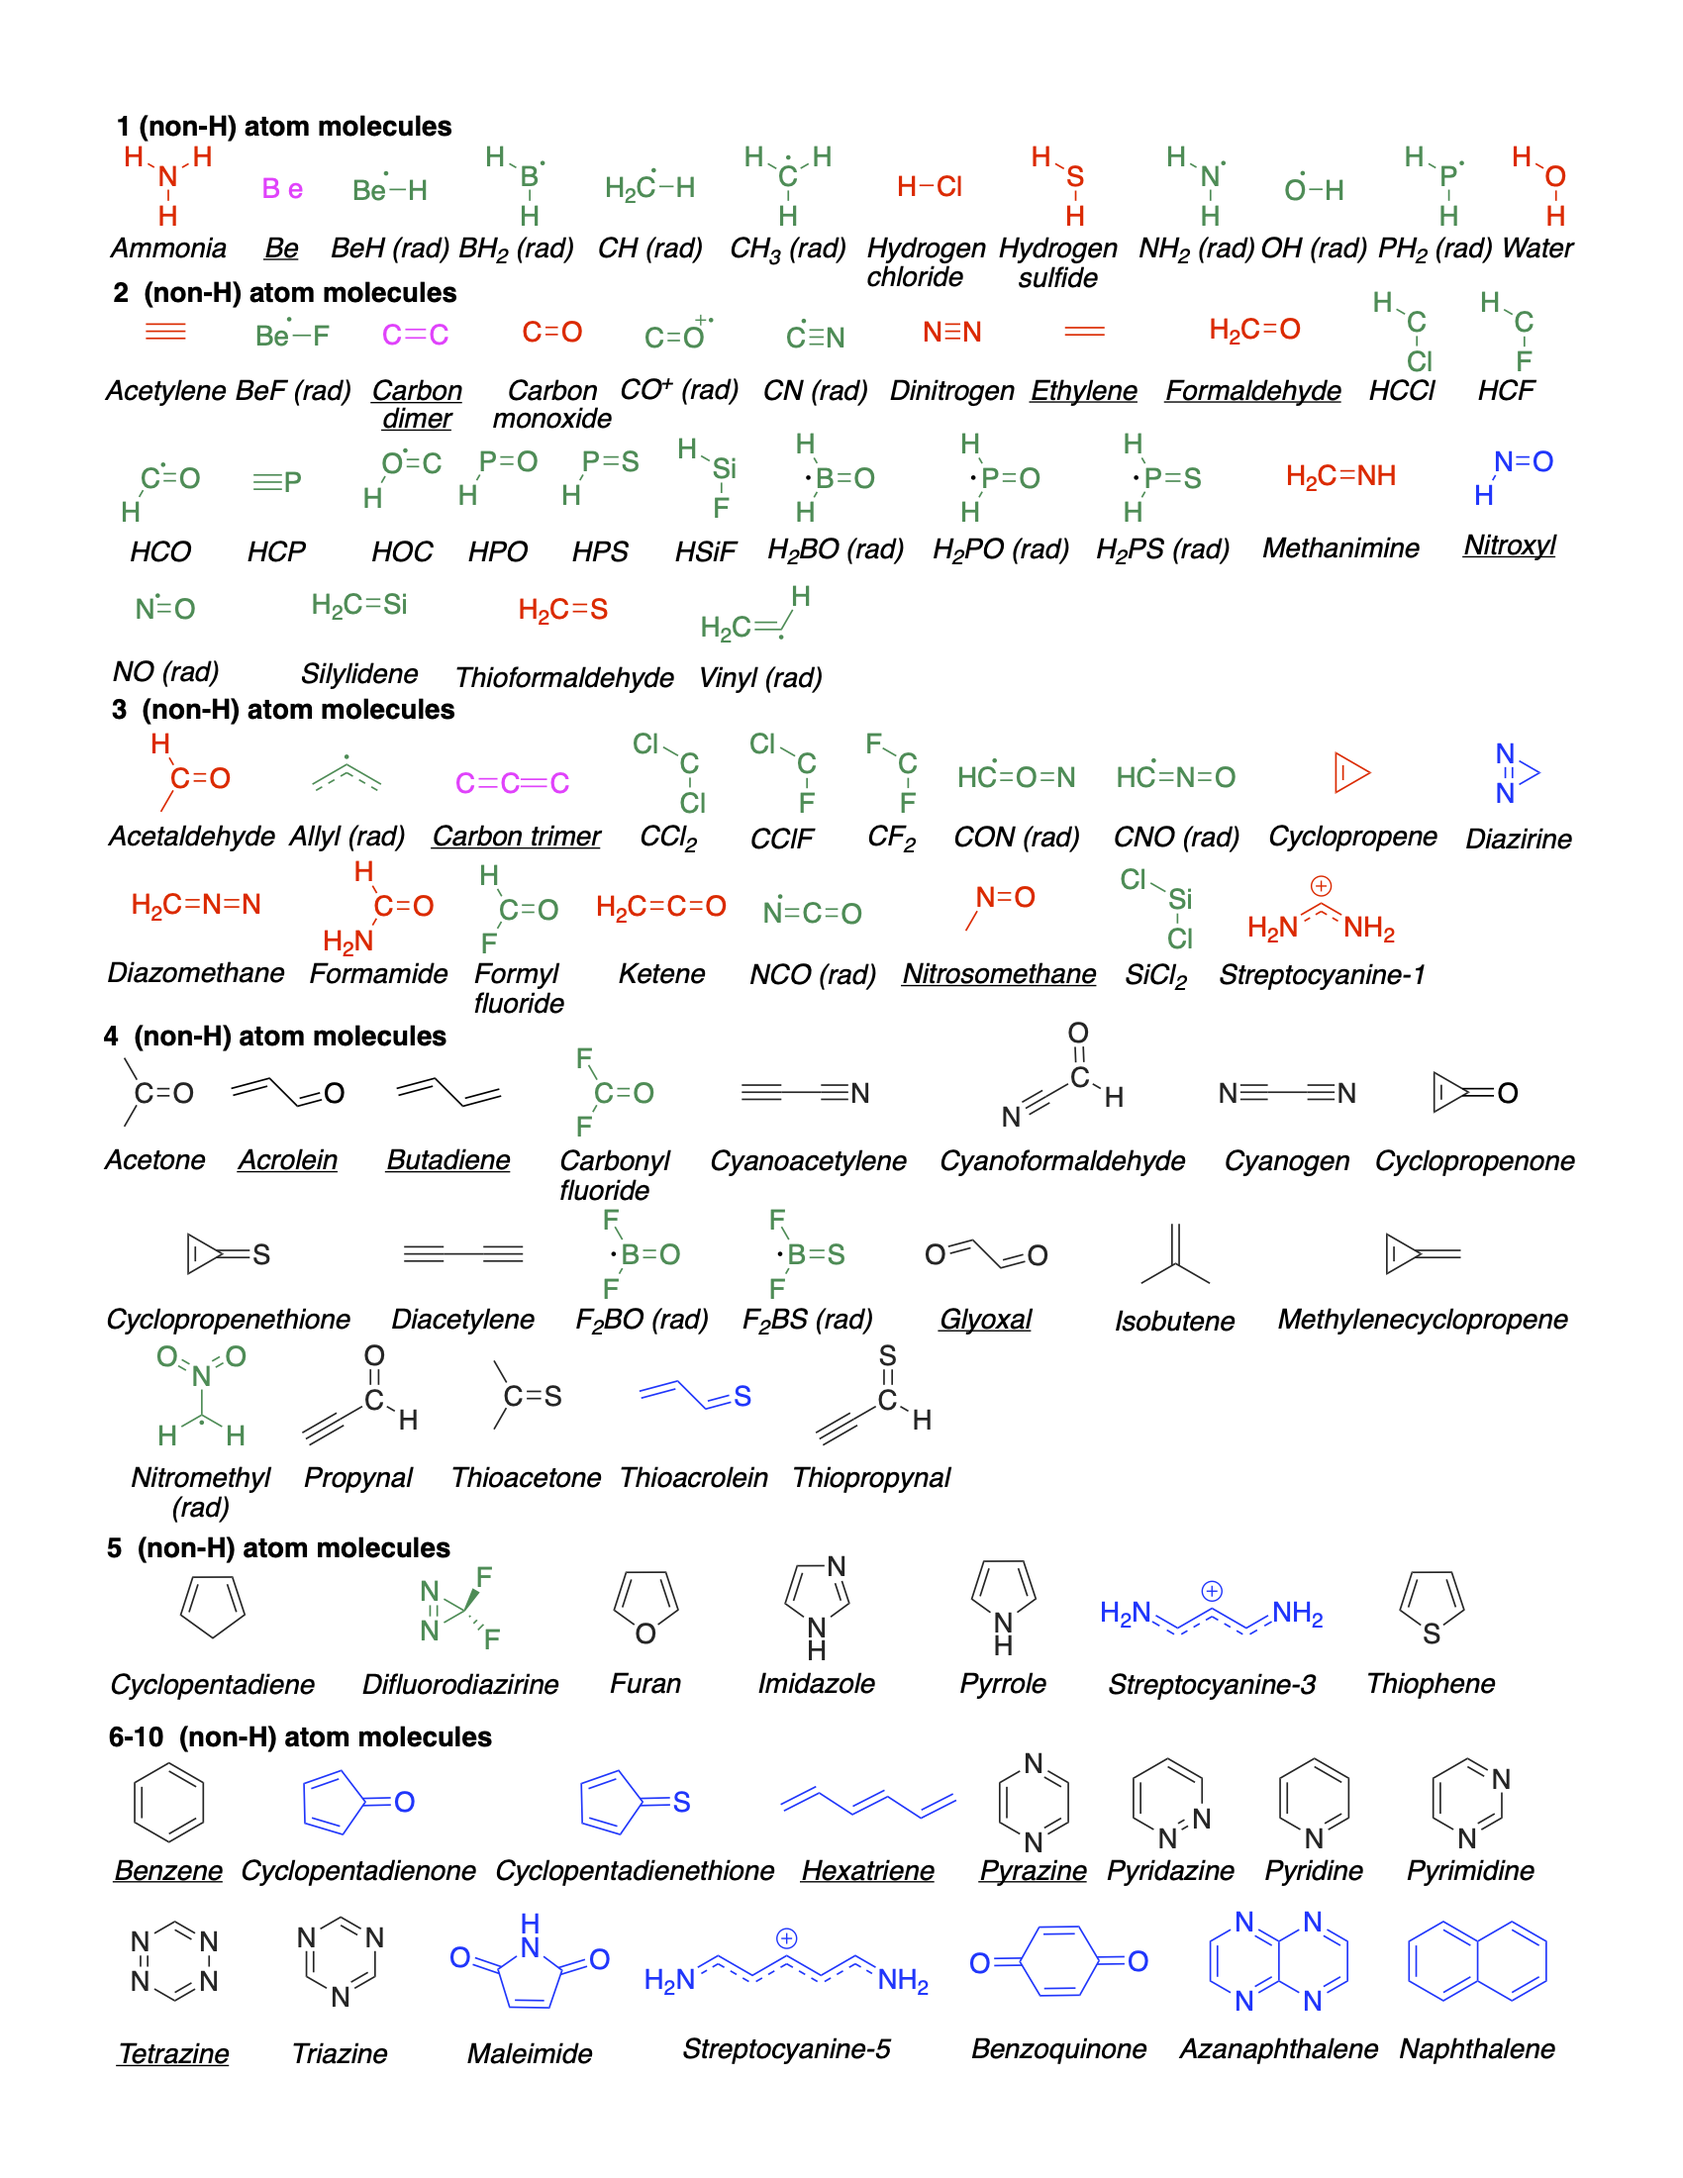
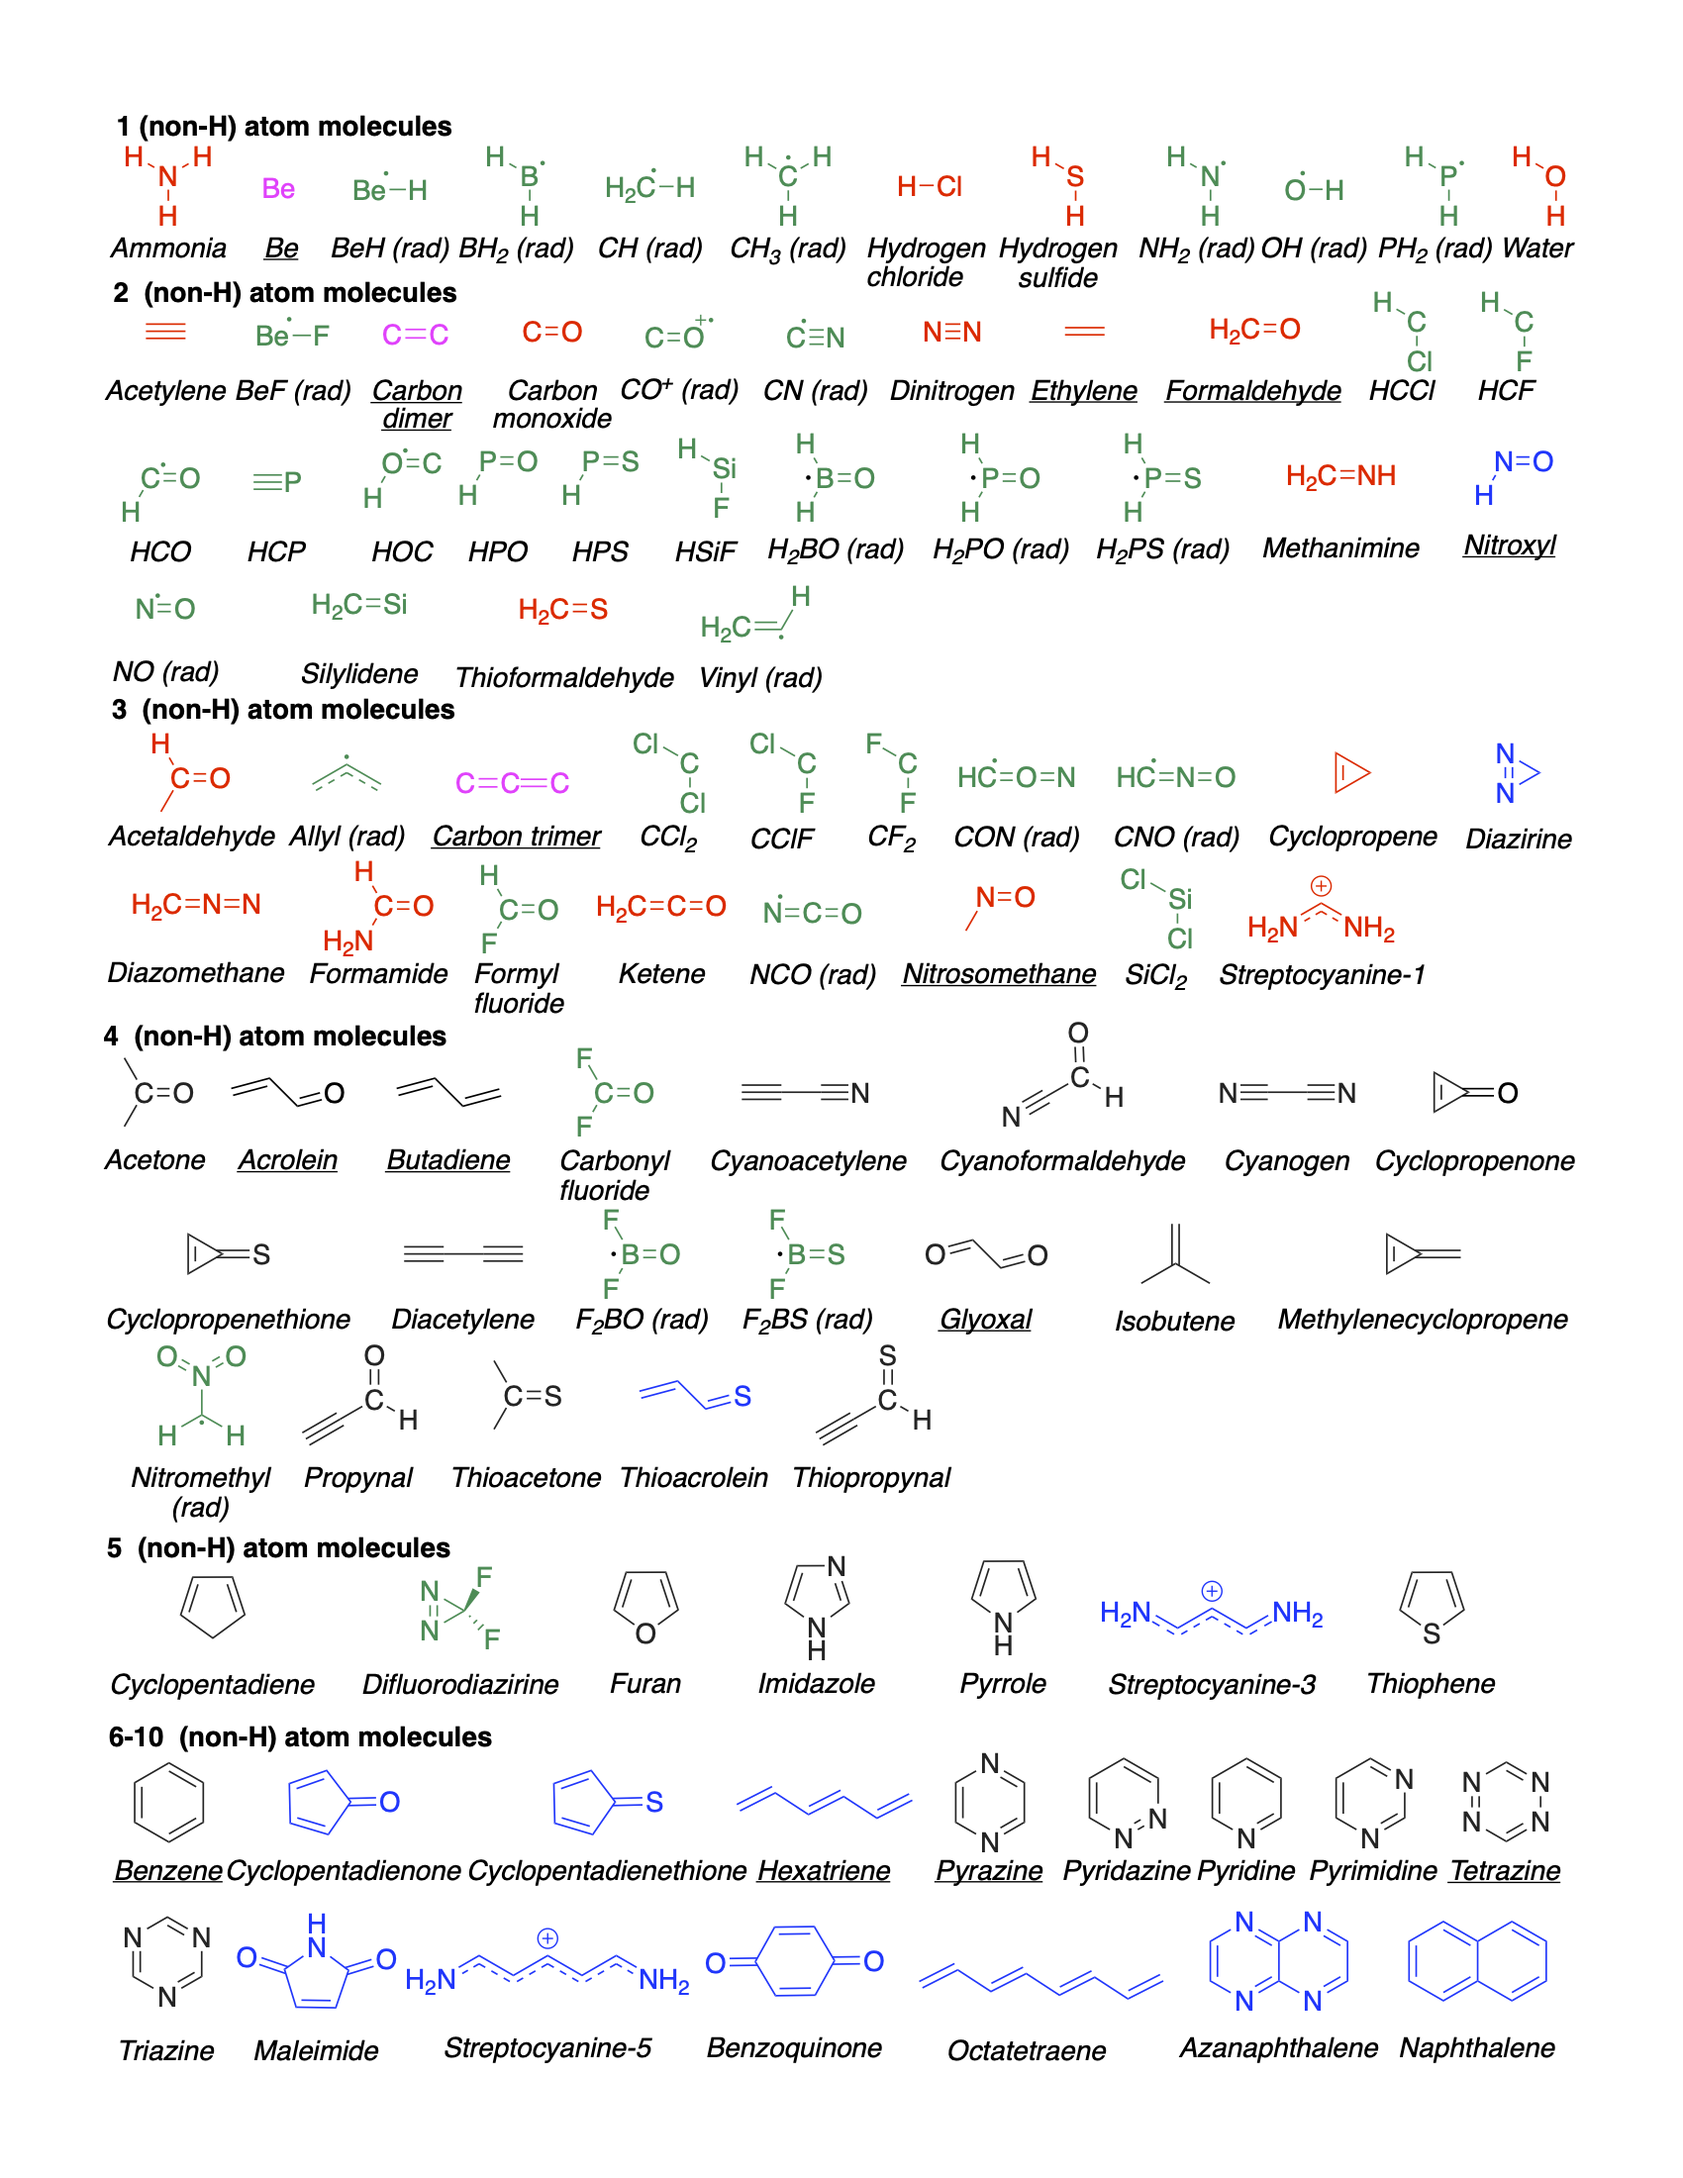
update QUEST5 and molecule image (#1)

diff --git a/content/subsets.md b/content/subsets.md
@@ -4,7 +4,8 @@ date: 2020-09-10 15:00
 draft: false
 ---
 
-The QUEST database provides theoretical best estimates (TBEs) for more than 470 highly-accurate excitation energies of various natures (valence, Rydberg, {{< tex "n \rightarrow \pi^\star" >}}, {{< tex "\pi \rightarrow \pi^\star" >}}, singlet, doublet, triplet, and double excitations) for molecules ranging from diatomics to molecules as large as naphthalene.
+The QUEST database provides theoretical best estimates (TBEs) for more than 500 highly-accurate excitation energies of various natures (valence, Rydberg, {{< tex "n \rightarrow \pi^\star" >}}, {{< tex "\pi \rightarrow \pi^\star" >}}, singlet, doublet, triplet, and double excitations) for molecules ranging from diatomics to molecules as large as naphthalene.
+This set is also chemically diverse, with organic and inorganic systems, open- and closed-shell compounds, acyclic and cyclic systems, pure hydrocarbons and various heteroatomic structures, etc.
 The molecules included in the QUEST dataset have been systematically optimized at the CC3/aug-cc-pVTZ level of theory, except for a very few cases.
 The QUEST dataset of vertical excitations is composed by 5 subsets:
 
@@ -39,9 +40,9 @@ We further performed high-order CC calculations to ascertain these estimates.
 
 ### [QUEST#5](/references#QUEST%235)
 
-The QUEST#5 subset is composed by additional accurate excitation energies that we have produced for the present website.
-This new set gathers small molecules as well as larger molecules (aza-naphthalene, benzoquinone, cyclopentadienone, cyclopentadienethione, hexatriene, maleimide, naphthalene, nitroxyl, streptocyanine-C3, streptocyanine-C5, and thioacrolein).
-QUEST#5 does also provide additional FCI/6-31+G* estimates of the lowest singlet and triplet transitions for the five- and six-membered rings considered in QUEST#3.
+The QUEST#5 subset is composed by additional accurate excitation energies that we have produced for the present article. This new set gathers 13 new systems composed by small molecules as well as larger molecules: aza-naphthalene, benzoquinone, cyclopentadienone, cyclopentadienethione, diazirine, hexatriene, maleimide, naphthalene, nitroxyl, octatetraene, streptocyanine-C3, streptocyanine-C5, and thioacrolein. For these new transitions, we generated quality vertical energies, the vast majority being obtained at the CCSDT level, and we consider that, out of these 80 new transitions, 55 of them can be labeled 
+as "safe", i.e., considered as chemically accurate or within 0.05 eV of the FCI limit for the given geometry and basis set.
+are made with literature data.
 
 
 
